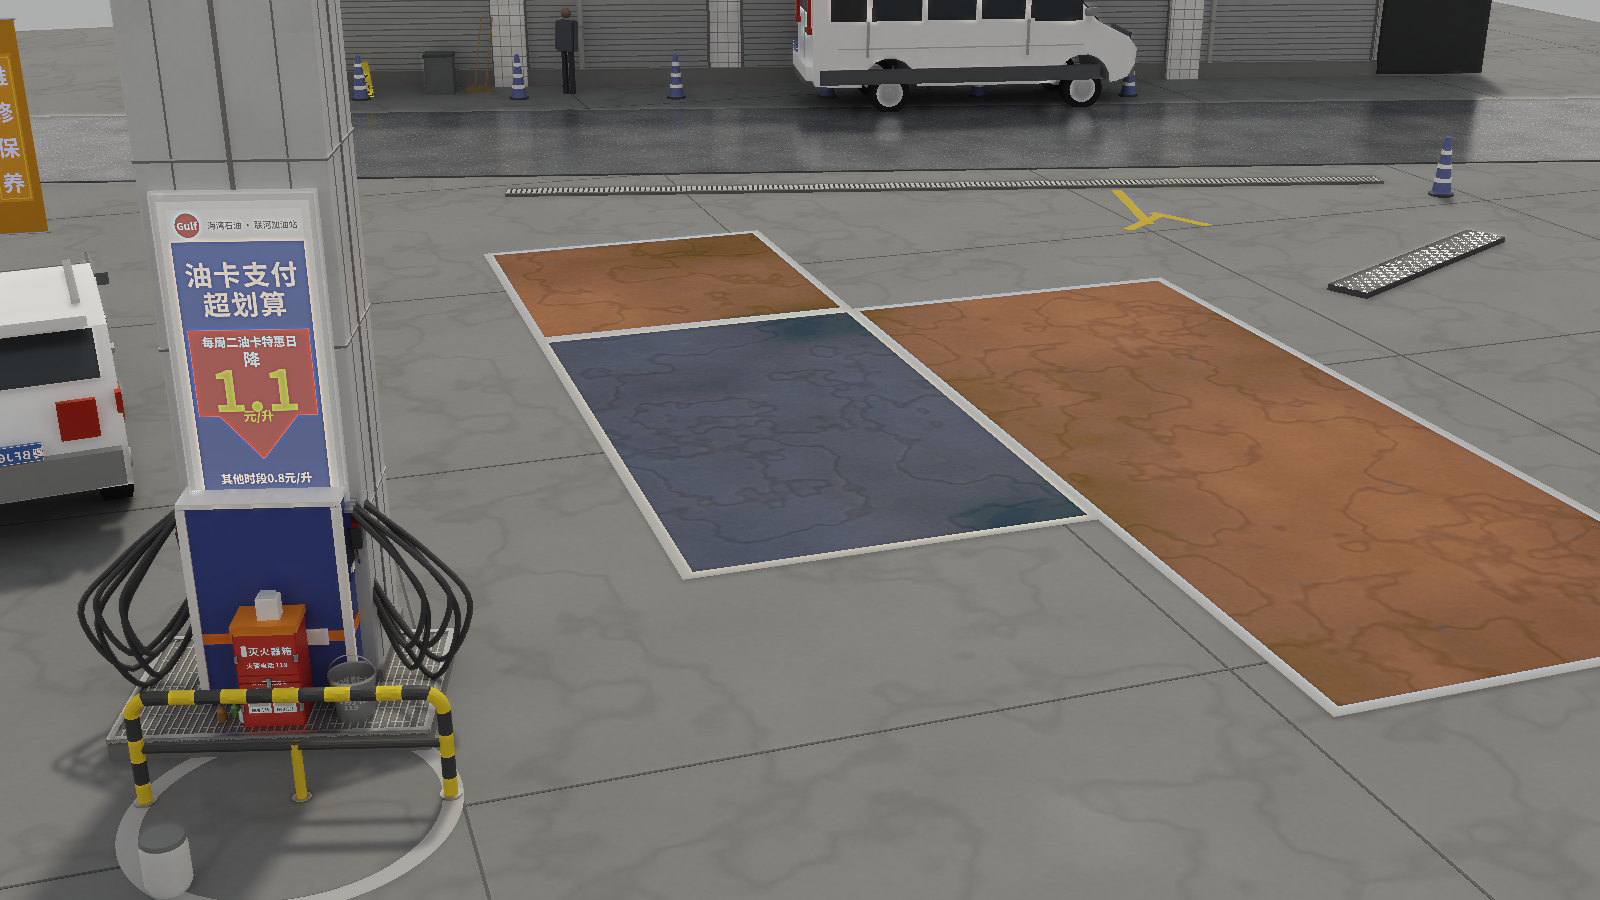
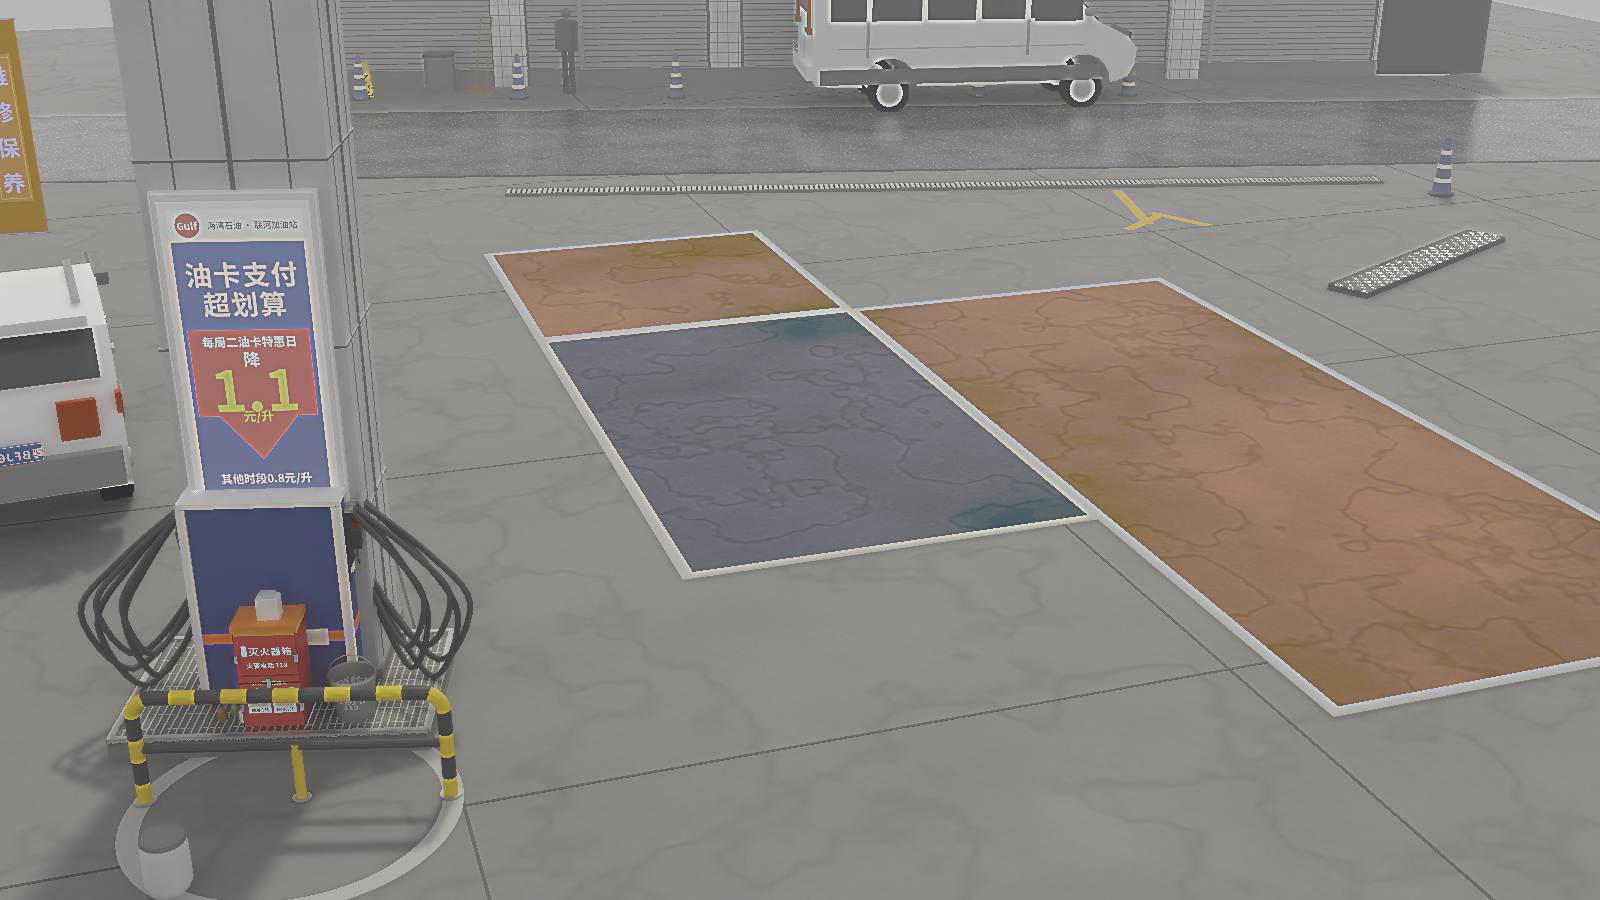
the haze hypothesis was half wrong, and the table is what disproved it
Every distant DARK object read too dark while distant BRIGHT ones read right,
which is exactly the signature of missing aerial perspective. So haze went in at
130 m -- and TOTAL SEVERITY got WORSE, 2.291 to 2.593. The shutters, the piers
and the apron all went from right to too light.

The disproof was already in the same table that suggested it: the facade and the
shutters sit at the SAME distance and wanted +0.15 and +0.015 of lift. No
function of depth delivers that. So those four objects were four dark albedos
after all -- black rubber, navy bollards, black rail bands, black hose -- and
each is lifted here against its own reference value. A speed hump also stops
sharing fresh-tyre black: it lives outdoors and is chalked pale by grit.

Haze stays at 320 m, a real and gentle amount rather than a fudge standing in
for something else.

Worth writing down that this is the loop working, not failing. A number that can
only ever agree with you is not measuring anything. This one took a plausible
idea, gave it a fair test, and killed it in one render -- cheaper than the
alternative, where the idea survives because the picture looks a bit better and
quietly bends four other objects around itself.

Also: 26_forecourt and forecourt.sheet resolve the renderer lazily now. Scoring
a render needs the module but not a renderer, and a remote-only checkout should
not refuse to let you read a scorecard just because it will not let you make a
picture.

diff --git a/examples/cases/26_forecourt.py b/examples/cases/26_forecourt.py
@@ -38,7 +38,6 @@ from mirage.capture import default_render                                 # noqa
 from mirage.meshlang import MeshProgram                                   # noqa: E402
 
 ROOT = Path(__file__).resolve().parents[2]
-RENDER = default_render()
 OUT = Path(__file__).resolve().parent / "outputs" / "26_forecourt"
 GALLERY = ROOT / "docs" / "gallery"
 # The reference lives outside the repo (it is somebody's CCTV frame, not an asset). Override
@@ -226,7 +225,10 @@ def render(prog, out, spp, w, h, extra=()):
     js = OUT / (out + ".json")
     js.write_text(prog.to_json())
     ppm = OUT / (out + ".ppm")
-    subprocess.run([str(RENDER), "--oplog", str(js), "--out", str(ppm),
+    # Resolved HERE, not at import: scoring a render (compare/critique) needs this module
+    # but no renderer, and a remote-only checkout must not refuse to let you read a
+    # scorecard just because it will not let you make a picture.
+    subprocess.run([str(default_render()), "--oplog", str(js), "--out", str(ppm),
                     "--spp", str(spp), "--w", str(w), "--h", str(h), "--threads", THREADS,
                     "--cam-eye", *[str(v) for v in CAM_EYE],
                     "--cam-target", *[str(v) for v in CAM_TGT],
@@ -309,11 +311,16 @@ def main():
              # white, a touch warm -- and --env drops by the same luminance ratio so the
              # exposure that was already measured right does not move.
              "--sky-tint", "1.667", "1.248", "0.829", "--sky-flat", "0.80",
-             # AERIAL PERSPECTIVE. The table flagged every DISTANT DARK object as too
-             # dark -- hump, bollards, rail, hoses -- while distant BRIGHT ones (the van)
-             # were fine. That is not four wrong albedos, it is the air between: haze
-             # lifts blacks and leaves whites, and the render had none of it.
-             "--haze", "130",
+             # Aerial perspective, and a hypothesis that was HALF WRONG. The table flagged
+             # every distant DARK object as too dark while distant BRIGHT ones were fine,
+             # which looks exactly like missing haze -- so haze went in at 130 m, and total
+             # severity got WORSE (2.29 -> 2.59): the shutters, the piers and the apron all
+             # went from right to too light. The disproof is in the same table that
+             # suggested it: the facade and the shutters sit at the SAME distance and wanted
+             # +0.15 and +0.015, which no function of depth can deliver. So those four dark
+             # objects were four dark albedos after all. Haze stays, at a value small enough
+             # to be the real thing rather than a fudge for something else.
+             "--haze", "320",
              # denoise 4 at 260 spp was eating the apron's grain: the scorecard read detail
              # 0.18 and barely moved when the map got twice the staining, because the filter
              # was removing exactly what the map was adding. 2 keeps it.

diff --git a/examples/cases/forecourt/materials.py b/examples/cases/forecourt/materials.py
@@ -97,9 +97,12 @@ RED       = mat((0.50, 0.045, 0.030), 0.0, 0.40)
 RED_D     = mat((0.30, 0.028, 0.020), 0.0, 0.44)
 ORANGE_S  = mat((0.72, 0.26, 0.03), 0.0, 0.42)
 YELLOW    = mat((0.74, 0.55, 0.03), 0.0, 0.44)
-BLACK     = mat((0.078, 0.078, 0.082), 0.0, 0.52)
+BLACK     = mat((0.105, 0.105, 0.110), 0.0, 0.52)
 RUBBER    = mat((0.020, 0.020, 0.022), 0.0, 0.78)
-HOSE      = mat((0.080, 0.080, 0.084), 0.0, 0.55)
+# A speed hump lives outdoors and is chalked pale by sun and grit; sharing the fresh-tyre
+# black had it reading 0.451 against the photograph's 0.588.
+HUMP      = mat((0.145, 0.145, 0.150), 0.0, 0.70)
+HOSE      = mat((0.125, 0.125, 0.130), 0.0, 0.55)
 STEEL     = mat((0.52, 0.52, 0.53), 1.0, 0.36)
 # The island's grating stands in the rain. Bright dry steel turned it into a chrome
 # serving tray; wet steel is darker and glossier, and reads as the thing in the photo.
@@ -111,7 +114,7 @@ BODY_WH   = mat((0.83, 0.835, 0.84), 0.0, 0.22)     # vehicle paint: brighter an
 GLASS     = mat((0.05, 0.06, 0.07), 0.0, 0.07)
 SHUTTER   = mat((0.42, 0.43, 0.435), 0.35, 0.40)
 SHUTTER_D = mat((0.24, 0.245, 0.255), 0.35, 0.46)
-NAVY      = mat((0.155, 0.185, 0.38), 0.0, 0.44)
+NAVY      = mat((0.235, 0.265, 0.44), 0.0, 0.44)
 TAIL_RED  = mat((0.42, 0.03, 0.02), 0.0, 0.22)
 LAMP      = mat((0.70, 0.68, 0.62), 0.0, 0.14)
 

diff --git a/examples/cases/forecourt/parts.py b/examples/cases/forecourt/parts.py
@@ -28,7 +28,7 @@ from mirage.meshlang import MeshProgram
 
 from .materials import (
     BLACK, BODY_WH, BUCKET_F, CHROME, CLAD, CONCRETE, FIREBOX_F, GALV, GLASS, HOSE, KERB,
-    LAMP, NAVY, ORANGE_S, PANEL_WH, PLATE_F, PROMO_F, PUMP_BL, PUMP_BL_D, RED, RED_D,
+    HUMP, LAMP, NAVY, ORANGE_S, PANEL_WH, PLATE_F, PROMO_F, PUMP_BL, PUMP_BL_D, RED, RED_D,
     WET_STEEL,
     REPAIR_F, RUBBER, SEAM, SHUTTER, SHUTTER_D, SIGN_FACE, STEEL, TAIL_RED, WALL_TILE,
     WASH_F, WETSIGN_F, WHITE, YELLOW, mat,
@@ -653,7 +653,7 @@ def speed_hump(length=3.6, w=0.50, h=0.075):
         x = (k - 1) * (length / 3 + 0.01)
         p.place(prism([[-length / 6, 0.0], [length / 6, 0.0], [length / 6 - 0.02, h],
                        [-length / 6 + 0.02, h]], -w / 2, w / 2),
-                at=[x, 0, 0], material=BLACK)
+                at=[x, 0, 0], material=HUMP)
     for k in range(int(length / 0.09)):                                # the checker, as paint
         for j in range(int(w / 0.09)):
             if (k + j) % 2:

diff --git a/examples/cases/forecourt/sheet.py b/examples/cases/forecourt/sheet.py
@@ -22,7 +22,6 @@ from . import parts as P
 from .materials import mat
 
 OUT = Path(__file__).resolve().parents[1] / "outputs" / "26_forecourt" / "parts"
-RENDER = default_render()
 BACKDROP = mat((0.32, 0.325, 0.33), 0.0, 0.62)
 
 # name -> (builder, "how big is it", camera yaw in degrees). The yaw picks the three-quarter
@@ -77,7 +76,7 @@ def render_part(name, spp=64, w=520, h=620):
     d = size * 1.85
     a = math.radians(yaw)
     eye = [ctr[0] + d * math.sin(a) * 0.9, ctr[1] - d * math.cos(a), ctr[2] + size * 0.55]
-    subprocess.run([str(RENDER), "--oplog", str(js), "--out", str(ppm), "--spp", str(spp),
+    subprocess.run([str(default_render()), "--oplog", str(js), "--out", str(ppm), "--spp", str(spp),
                     "--w", str(w), "--h", str(h), "--threads", "14",
                     "--cam-eye", *[f"{v:.4f}" for v in eye],
                     "--cam-target", *[f"{v:.4f}" for v in ctr],
